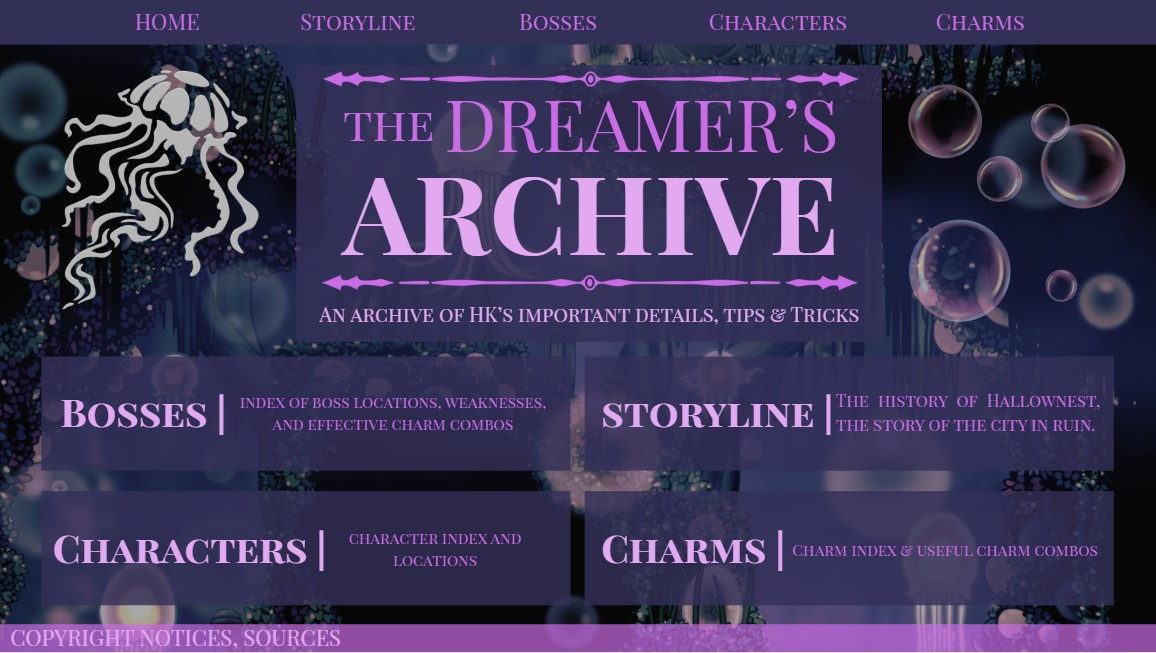
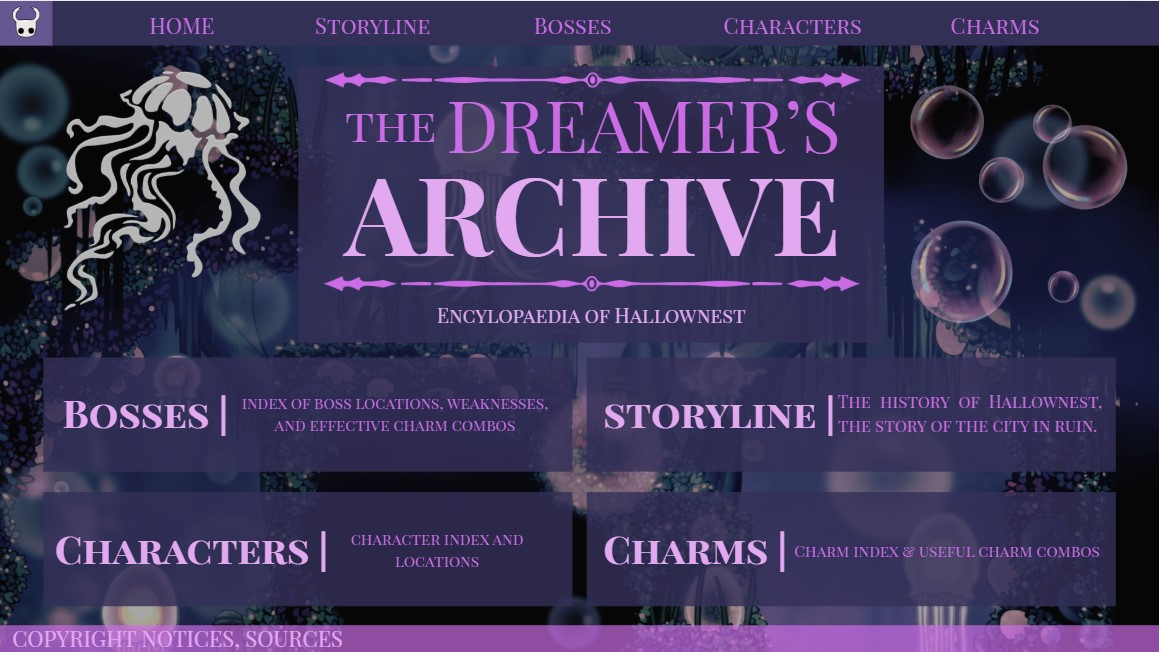
edited proposal hehehheh

diff --git a/README.md b/README.md
@@ -1,9 +1,9 @@
 # WDProjBerylliumCabreraComia 
 ## Q2 Project Proposal
-![Hollow Knight](./assets/knight.png)
 ### 1. Working Website Title: The Dreamer's Archive
 ### 2. Second Title: Encyclopedia of Hallownest
 ### 3. Favicon: 
+![Hollow Knight](./assets/knight.png)
 ### 4. Website Overview: 
 - This website, The Dreamer's Archive, is a comprehensive guide about the hit game Hollow Knight, made by indie video game developer Team Cherry.  The Dreamer's Archive will contain useful and in-depth information about a large majority of the content in the game. This website includes info about the storyline, the characters, the map and its locations, the charms, the bosses and characters, and a tips and tricks pages, all about Hollow Knight. This website aims to help new players with their journey across the expansive world of Hollow Knight, or perhaps even help veteran players learn something new about the game that they haven't discovered. The Dreamer's Archive is made by Hollow Knight fans, for Hollow Knight Fans.
 ### 5. Website Outline:
@@ -11,26 +11,26 @@
 > The homepage will just be a simple menu, including the description of the website, and easy navigation to the other webpages.  
 - **Storyline**
 > The storyline page will contain a simple timeline containing the beginning, the history of Hallownest (the location where the game takes place), the present, and the end of the Hollow Knight storyline. 
-- **Bosses**
-> The bosses page will contain an index of many details about the bosses of the game. It will contain their locations, weaknesses, and effective charm combos against them.
-- **Characters**
-> The characters page will contain detailed information about the many notable characters you encounter in the game. It will include where you can find them, what they do, and some of their lore.
-- **Charms**
-> The charms page will contain an index of all of the charms in the game, and it will include all the details about what they do, how to obtain them, and how they can be used efficiently. It will also include the many charm combos you can do. 
+- **Boss Index**
+> The bosses index page will contain an index of many details about the bosses of the game. It will contain their locations, weaknesses, and effective charm combos against them.
+- **Character Index**
+> The character index page will contain detailed information about the many notable characters you encounter in the game. It will include where you can find them, what they do, and some of their lore.
+- **Charm Index**
+> The charm index page will contain an index of all of the charms in the game, and it will include all the details about what they do, how to obtain them, and how they can be used efficiently. It will also include the many charm combos you can do. 
 ### 6. How Javascript Will Be Incorporated: 
-- placeholder
+- Javascript will be incorporated in the Character Index page. Each of the little characters shown in the index will have brief animations and movement when the user hovers over their image. This will add a little flavor and life to our webpage, mimicking the same liveliness of the characters in the actual game itself.
 ### 7. Wireframe:
 - [Link to Full Wireframe (Made using Canva)](https://www.canva.com/design/DAG2-C6AFNo/IvwIGROKGSOj-9E5tISQhg/edit?utm_content=DAG2-C6AFNo&utm_campaign=designshare&utm_medium=link2&utm_source=sharebutton)
 #### Homepage
-![Homepage](./assets/homepage.jpg)
+![Homepage](./assets/Homepage.jpg)
 #### Storyline
-![Storyline1](./assets/storyline1.jpg)
-![Storyline2](./assets/storyline2.jpg)
+![Storyline1](./assets/Storyline1.jpg)
+![Storyline2](./assets/Storyline2.jpg)
 #### Characters 
-![Character1](./assets/character1.jpg)
-![Charcater2](./assets/character2.jpg)
+![Character1](./assets/CharIndex1.jpg)
+![Character2](./assets/CharIndex2.jpg)
 #### Charms
-![Charm1](./assets/charm1.jpg)
-![Charm2](./assets/charm2.jpg)
+![Charm1](./assets/CharmIndex1.jpg)
+![Charm2](./assets/CharmIndex2.jpg)
 #### Bosses
-![Boss1](./assets/boss1.jpg)
+![Boss1](./assets/BossIndex.jpg)
